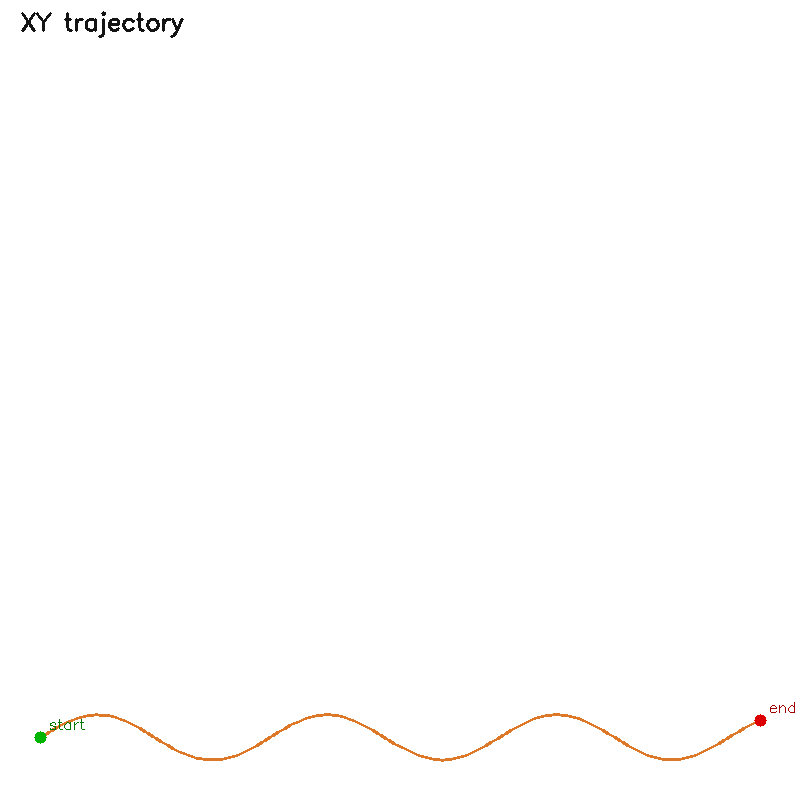
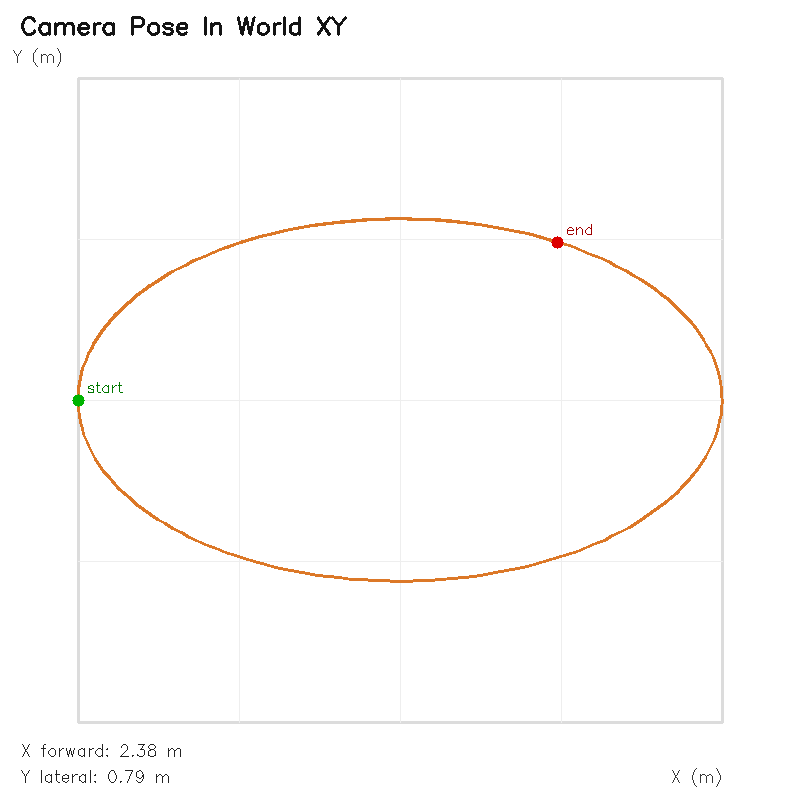
Clarify live SLAM modes and refresh demo assets

diff --git a/tools/run_webcam_mapping.py b/tools/run_webcam_mapping.py
@@ -6,6 +6,7 @@ from pathlib import Path
 from time import perf_counter
 
 import cv2
+import numpy as np
 
 REPO_ROOT = Path(__file__).resolve().parents[1]
 if str(REPO_ROOT) not in sys.path:
@@ -32,6 +33,90 @@ except ImportError:  # pragma: no cover
 LOGGER = get_logger(__name__)
 WINDOW_NAME = "Atlas Webcam Mapping"
 _CLOSE_BUTTON_RECT = (1110, 16, 1260, 56)
+
+
+def _badge_style_for_mode(mode: str) -> tuple[str, tuple[int, int, int], tuple[int, int, int]]:
+    normalized = str(mode).lower()
+    if normalized == "dummy":
+        return "SLAM: DUMMY", (255, 248, 230), (173, 112, 24)
+    if normalized == "rtabmap":
+        return "SLAM: RTABMAP", (231, 248, 238), (35, 122, 69)
+    return "SLAM: DISABLED", (240, 240, 240), (90, 90, 90)
+
+
+def _trajectory_title_for_mode(mode: str) -> str:
+    normalized = str(mode).lower()
+    if normalized == "dummy":
+        return "Synthetic Camera Path (World XY)"
+    if normalized == "rtabmap":
+        return "Tracked Camera Pose (World XY)"
+    return "Fixed Camera Pose (World XY)"
+
+
+def _build_fixed_pose_panel(width: int, height: int) -> np.ndarray:
+    panel = 255 * np.ones((height, width, 3), dtype=np.uint8)
+    lines = [
+        ("Pose mode: fixed identity", 0.9, (30, 30, 30), 2),
+        ("No motion tracking is active.", 0.7, (45, 45, 45), 2),
+        ("Webcam default keeps pose fixed", 0.64, (70, 70, 70), 1),
+        ("to avoid synthetic tracking claims.", 0.64, (70, 70, 70), 1),
+        ("Use --slam-mode dummy for a", 0.62, (90, 90, 90), 1),
+        ("visualization-only synthetic path.", 0.62, (90, 90, 90), 1),
+    ]
+    y = 120
+    for text, scale, color, thickness in lines:
+        cv2.putText(panel, text, (40, y), cv2.FONT_HERSHEY_SIMPLEX, scale, color, thickness)
+        y += 52
+    cv2.rectangle(panel, (28, 28), (width - 28, height - 28), (210, 210, 210), 2)
+    return panel
+
+
+def _build_dummy_trajectory_panel(trajectory_image: np.ndarray) -> np.ndarray:
+    panel = trajectory_image.copy()
+    overlay = panel.copy()
+    box_left = 34
+    box_top = panel.shape[0] - 116
+    box_right = panel.shape[1] - 34
+    box_bottom = panel.shape[0] - 30
+    cv2.rectangle(overlay, (box_left, box_top), (box_right, box_bottom), (248, 248, 248), -1)
+    panel = cv2.addWeighted(overlay, 0.78, panel, 0.22, 0.0)
+    cv2.rectangle(panel, (box_left, box_top), (box_right, box_bottom), (192, 192, 192), 1)
+    cv2.putText(
+        panel,
+        "Synthetic path",
+        (box_left + 20, box_top + 34),
+        cv2.FONT_HERSHEY_SIMPLEX,
+        0.78,
+        (100, 100, 100),
+        2,
+    )
+    cv2.putText(
+        panel,
+        "For visualization only",
+        (box_left + 20, box_top + 72),
+        cv2.FONT_HERSHEY_SIMPLEX,
+        0.66,
+        (118, 118, 118),
+        2,
+    )
+    return panel
+
+
+def _draw_mode_badge(dashboard: np.ndarray, mode: str) -> np.ndarray:
+    label, fill_color, border_color = _badge_style_for_mode(mode)
+    x1, y1, x2, y2 = 20, 16, 270, 58
+    cv2.rectangle(dashboard, (x1, y1), (x2, y2), fill_color, -1)
+    cv2.rectangle(dashboard, (x1, y1), (x2, y2), border_color, 2)
+    cv2.putText(
+        dashboard,
+        label,
+        (x1 + 16, y1 + 29),
+        cv2.FONT_HERSHEY_SIMPLEX,
+        0.72,
+        border_color,
+        2,
+    )
+    return dashboard
 
 
 class LiveWindowController:
@@ -179,6 +264,7 @@ def run_webcam_mapping(args: argparse.Namespace | None = None) -> Path:
     processed = 0
     start_time = perf_counter()
     point_cloud = None
+    slam_mode = str(config["slam"]["mode"]).lower()
     try:
         for frame in source.frames():
             mapper.update_camera_intrinsics(getattr(source, "get_camera_intrinsics", lambda: None)())
@@ -196,6 +282,11 @@ def run_webcam_mapping(args: argparse.Namespace | None = None) -> Path:
             ros_bridge.publish_pointcloud(point_cloud, frame.timestamp)
 
             elapsed = max(perf_counter() - start_time, 1e-6)
+            trajectory_image = None
+            if slam_mode == "disabled":
+                trajectory_image = _build_fixed_pose_panel(600, 320)
+            elif slam_mode == "dummy":
+                trajectory_image = _build_dummy_trajectory_panel(slam.trajectory.render_plot(size=600))
             dashboard = DemoVideoRecorder.compose_frame(
                 rgb=frame.image,
                 depth_map=depth_map,
@@ -210,7 +301,7 @@ def run_webcam_mapping(args: argparse.Namespace | None = None) -> Path:
                 },
                 runtime={
                     "input_mode": str(config["input"]["mode"]),
-                    "slam_mode": str(config["slam"]["mode"]),
+                    "slam_mode": slam_mode,
                     "frame_id": str(config["ros2"].get("frame_id", "atlas_camera")),
                     "depth_topic": str(config["ros2"].get("depth_topic", "/atlas/depth")),
                     "pose_topic": str(config["ros2"].get("pose_topic", "/atlas/pose")),
@@ -218,11 +309,13 @@ def run_webcam_mapping(args: argparse.Namespace | None = None) -> Path:
                     "pointcloud_topic": str(config["ros2"].get("pointcloud_topic", "/atlas/pointcloud")),
                     "rgb_title": "Live Camera Feed",
                     "depth_title": "Estimated Depth",
-                    "trajectory_title": "Tracked Camera Pose (World XY)",
+                    "trajectory_title": _trajectory_title_for_mode(slam_mode),
                     "status_title": "Runtime Status",
                 },
                 frame_size=(1280, 720),
+                trajectory_image=trajectory_image,
             )
+            dashboard = _draw_mode_badge(dashboard, slam_mode)
             dashboard = window_controller.draw_overlay(dashboard)
             cv2.imshow(WINDOW_NAME, dashboard)
             if cloud_viewer is not None:

diff --git a/tests/test_demo_tools.py b/tests/test_demo_tools.py
@@ -5,7 +5,14 @@ import numpy as np
 
 from tools.export_demo_gif import export_demo_gif
 from tools.run_demo import build_demo_command
-from tools.run_webcam_mapping import build_runtime_config
+from tools.run_webcam_mapping import (
+    _badge_style_for_mode,
+    _build_dummy_trajectory_panel,
+    _build_fixed_pose_panel,
+    _draw_mode_badge,
+    _trajectory_title_for_mode,
+    build_runtime_config,
+)
 
 
 def test_build_demo_command_for_tum_uses_expected_configs():
@@ -13,7 +20,7 @@ def test_build_demo_command_for_tum_uses_expected_configs():
     assert command[1:4] == ["-m", "src.main", "--config"]
     assert "configs/default.yaml" in command
     assert "configs/tum_demo.yaml" in command
-    assert command[-1] == "180"
+    assert command[-1] == "240"
 
 
 def test_export_demo_gif_creates_output(tmp_path: Path):
@@ -60,3 +67,33 @@ def test_build_webcam_runtime_config_applies_live_overrides():
     assert config["mapping"]["representation"] == "tsdf"
     assert config["output"]["save_pointcloud"] is True
     assert config["output"]["save_trajectory"] is True
+
+
+def test_trajectory_title_varies_by_slam_mode():
+    assert _trajectory_title_for_mode("dummy") == "Synthetic Camera Path (World XY)"
+    assert _trajectory_title_for_mode("rtabmap") == "Tracked Camera Pose (World XY)"
+    assert _trajectory_title_for_mode("disabled") == "Fixed Camera Pose (World XY)"
+
+
+def test_fixed_pose_panel_renders_placeholder_content():
+    panel = _build_fixed_pose_panel(480, 260)
+    assert panel.shape == (260, 480, 3)
+    assert panel.dtype == np.uint8
+    assert np.count_nonzero(panel != 255) > 0
+
+
+def test_dummy_trajectory_panel_adds_visualization_notice():
+    base = np.full((320, 420, 3), 255, dtype=np.uint8)
+    panel = _build_dummy_trajectory_panel(base)
+    assert panel.shape == base.shape
+    assert np.count_nonzero(panel != base) > 0
+
+
+def test_mode_badge_renders_for_each_slam_mode():
+    assert _badge_style_for_mode("disabled")[0] == "SLAM: DISABLED"
+    assert _badge_style_for_mode("dummy")[0] == "SLAM: DUMMY"
+    assert _badge_style_for_mode("rtabmap")[0] == "SLAM: RTABMAP"
+
+    canvas = np.full((120, 320, 3), 255, dtype=np.uint8)
+    badged = _draw_mode_badge(canvas.copy(), "dummy")
+    assert np.count_nonzero(badged != canvas) > 0

diff --git a/src/utils/demo_video.py b/src/utils/demo_video.py
@@ -32,8 +32,18 @@ class DemoVideoRecorder:
         pose: PoseEstimate,
         metrics: dict[str, float | int],
         runtime: dict[str, str],
+        trajectory_image: np.ndarray | None = None,
     ) -> None:
-        frame = self.compose_frame(rgb, depth_map, trajectory, pose, metrics, runtime, self.frame_size)
+        frame = self.compose_frame(
+            rgb,
+            depth_map,
+            trajectory,
+            pose,
+            metrics,
+            runtime,
+            self.frame_size,
+            trajectory_image=trajectory_image,
+        )
         self.writer.write(frame)
 
     def close(self) -> None:
@@ -48,6 +58,7 @@ class DemoVideoRecorder:
         metrics: dict[str, float | int],
         runtime: dict[str, str],
         frame_size: tuple[int, int] = (1280, 720),
+        trajectory_image: np.ndarray | None = None,
     ) -> np.ndarray:
         width, height = frame_size
         cell_w = width // 2
@@ -55,7 +66,9 @@ class DemoVideoRecorder:
 
         canvas = np.full((height, width, 3), 245, dtype=np.uint8)
         depth_vis = colorize_depth(depth_map)
-        trajectory_vis = trajectory.render_plot(size=min(cell_w, cell_h) - 40)
+        trajectory_vis = trajectory_image
+        if trajectory_vis is None:
+            trajectory_vis = trajectory.render_plot(size=min(cell_w, cell_h) - 40)
         status_vis = DemoVideoRecorder._build_status_panel(cell_w, cell_h, pose, metrics, runtime)
         rgb_title = runtime.get("rgb_title", "Simulator Camera Feed")
         depth_title = runtime.get("depth_title", "Depth Output")

diff --git a/src/slam/wrapper.py b/src/slam/wrapper.py
@@ -53,8 +53,8 @@ class DummyBackend(SlamBackend):
         super().__init__(config)
         self._step = 0
         self._latest: PoseEstimate | None = None
-        self.path_radius_x = float(config.get("path_radius_x", 1.6))
-        self.path_radius_y = float(config.get("path_radius_y", 0.9))
+        self.path_radius_x = float(config.get("path_radius_x", 1.4))
+        self.path_radius_y = float(config.get("path_radius_y", 1.4))
         self.path_frequency = float(config.get("path_frequency", 0.035))
         self.vertical_amplitude = float(config.get("vertical_amplitude", 0.02))
         self.vertical_frequency = float(config.get("vertical_frequency", 0.05))

diff --git a/tests/test_slam.py b/tests/test_slam.py
@@ -20,8 +20,8 @@ def test_dummy_mode_generates_synthetic_motion():
     pose_b = slam.update(None, None, 2.0)
     pose_c = slam.update(None, None, 3.0)
     assert pose_a.matrix[0, 3] == 0.0
-    assert pose_b.matrix[0, 3] == pytest.approx(1.6 * (1.0 - np.cos(0.035)))
-    assert pose_b.matrix[1, 3] == pytest.approx(0.9 * np.sin(0.035))
+    assert pose_b.matrix[0, 3] == pytest.approx(1.4 * (1.0 - np.cos(0.035)))
+    assert pose_b.matrix[1, 3] == pytest.approx(1.4 * np.sin(0.035))
     assert pose_c.matrix[1, 3] > pose_b.matrix[1, 3]
     assert pose_b.matrix[2, 3] == pytest.approx(np.sin(0.05) * 0.02)
     assert pose_b.matrix[0, 0] < 1.0

diff --git a/tools/run_demo.py b/tools/run_demo.py
@@ -16,13 +16,13 @@ DEMO_PRESETS = {
     "tum": {
         "config": "configs/default.yaml",
         "override_config": "configs/tum_demo.yaml",
-        "max_frames": 180,
+        "max_frames": 240,
         "video_path": "demo/videos/tum_demo.mp4",
         "gif_path": "demo/gifs/tum_demo.gif",
         "trajectory_plot": "data/outputs/tum_demo_eval/trajectory_plot.png",
         "trajectory_screenshot": "demo/screenshots/tum_trajectory_plot.png",
         "gif_fps": 6.0,
-        "gif_max_frames": 120,
+        "gif_max_frames": 160,
         "gif_width": 960,
     }
 }

diff --git a/README.md b/README.md
@@ -1,6 +1,6 @@
 # Atlas Perception
 
-Atlas Perception reconstructs 3D geometry from monocular RGB sequences and produces depth maps, semantic masks, point clouds, camera trajectories, and world-aligned maps for robotics pipelines.
+Atlas Perception reconstructs 3D geometry from monocular RGB sequences and produces depth maps, semantic masks, point clouds, trajectory outputs, and world-aligned maps for robotics pipelines when an external or configured pose source is available.
 
 Additional documentation:
 
@@ -108,8 +108,17 @@ If you want YOLOv8 segmentation, install the optional semantics extra with `pip 
 For simulator-backed showcase runs, `output.save_demo_video` writes a composite `.mp4` with the camera feed, depth output, trajectory plot, and ROS topic/status panel.
 For the fastest local showcase path, `python tools/run_demo.py --dataset tum` runs the TUM preset and exports `demo/gifs/tum_demo.gif`.
 That preset uses looping video input plus a curved synthetic `slam.mode: dummy` motion profile so the trajectory panel and trajectory plot visibly build over time instead of staying on a straight line.
-For a live laptop-camera demo, `python run_webcam_mapping.py` opens a real-time dashboard with RGB, depth, trajectory, and status, and `--show-cloud` adds a live Open3D point-cloud window.
+For a live laptop-camera demo, `python run_webcam_mapping.py` opens a real-time dashboard with RGB, depth, fixed-pose status, and runtime metrics, and `--show-cloud` adds a live Open3D point-cloud window.
+In `slam.mode: dummy`, Atlas uses a synthetic pose path for visualization and map accumulation. This mode does not estimate real camera motion from monocular webcam input.
 For Isaac Sim, `python tools/run_isaac_demo.py` attaches Atlas directly to the bridged ROS2 RGB and `CameraInfo` topics.
+
+## Mode Summary
+
+| Mode | Input | Pose Source | Output |
+| --- | --- | --- | --- |
+| `disabled` | webcam / video | fixed identity | depth, semantic overlays, local cloud |
+| `dummy` | webcam / video / sim | synthetic path | demo mapping, trajectory visualization |
+| `rtabmap` | ROS2 / sim | external SLAM pose | world-aligned mapping and trajectory |
 
 ## Live Webcam Mapping
 
@@ -124,16 +133,18 @@ This starts a live webcam pipeline with:
 - RGB feed
 - monocular depth estimation
 - evolving point cloud
-- trajectory/status dashboard
+- fixed-pose status dashboard by default
 
 Useful flags:
 
 - `--show-cloud` opens a live Open3D point-cloud window
 - `--save-artifacts` writes `frame_cloud.ply` and trajectory exports on exit
 - `--representation tsdf` switches the live mapper to TSDF fusion
-- `--slam-mode dummy` enables synthetic pose integration for a visibly moving accumulated map
+- `--slam-mode dummy` enables a visualization-only synthetic camera path for a visibly moving accumulated map
+- `--slam-mode rtabmap` uses externally tracked RTAB-Map poses when a ROS2 pose source is available
 
 Press `q` or `Esc` to quit.
+The dashboard also shows a prominent `SLAM: ...` badge so the active pose mode is explicit during live runs.
 
 ## Configuration
 
@@ -174,7 +185,7 @@ Semantic perception is optional:
 SLAM modes are explicit:
 
 - `slam.mode: disabled` keeps pose fixed at identity
-- `slam.mode: dummy` generates synthetic forward motion for pipeline testing
+- `slam.mode: dummy` generates a synthetic visualization path for pipeline testing and demo accumulation
 - `slam.mode: rtabmap` consumes external RTAB-Map pose output from ROS2 and uses it for world-frame cloud alignment
 
 Pose-graph support is also config-driven:
